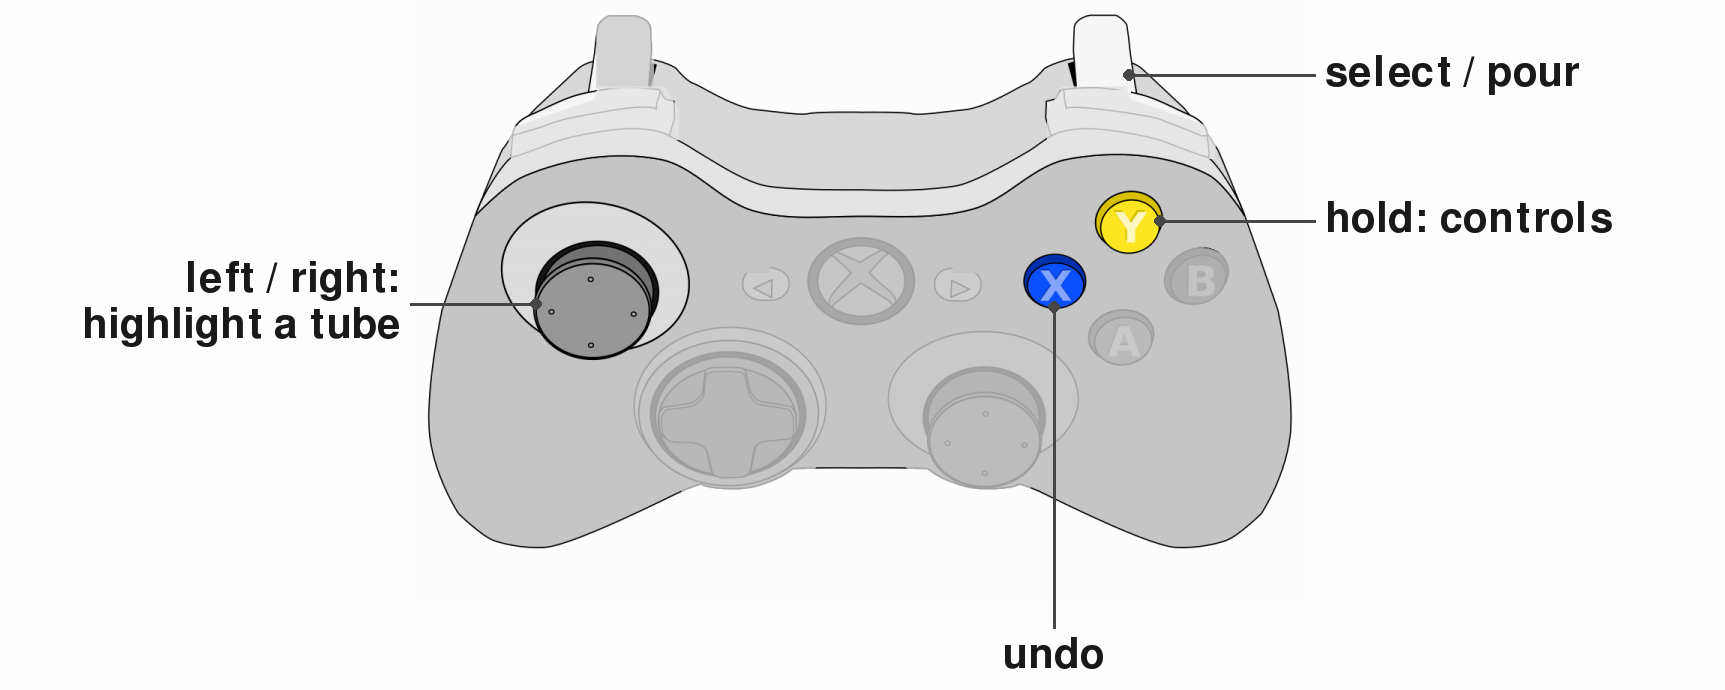
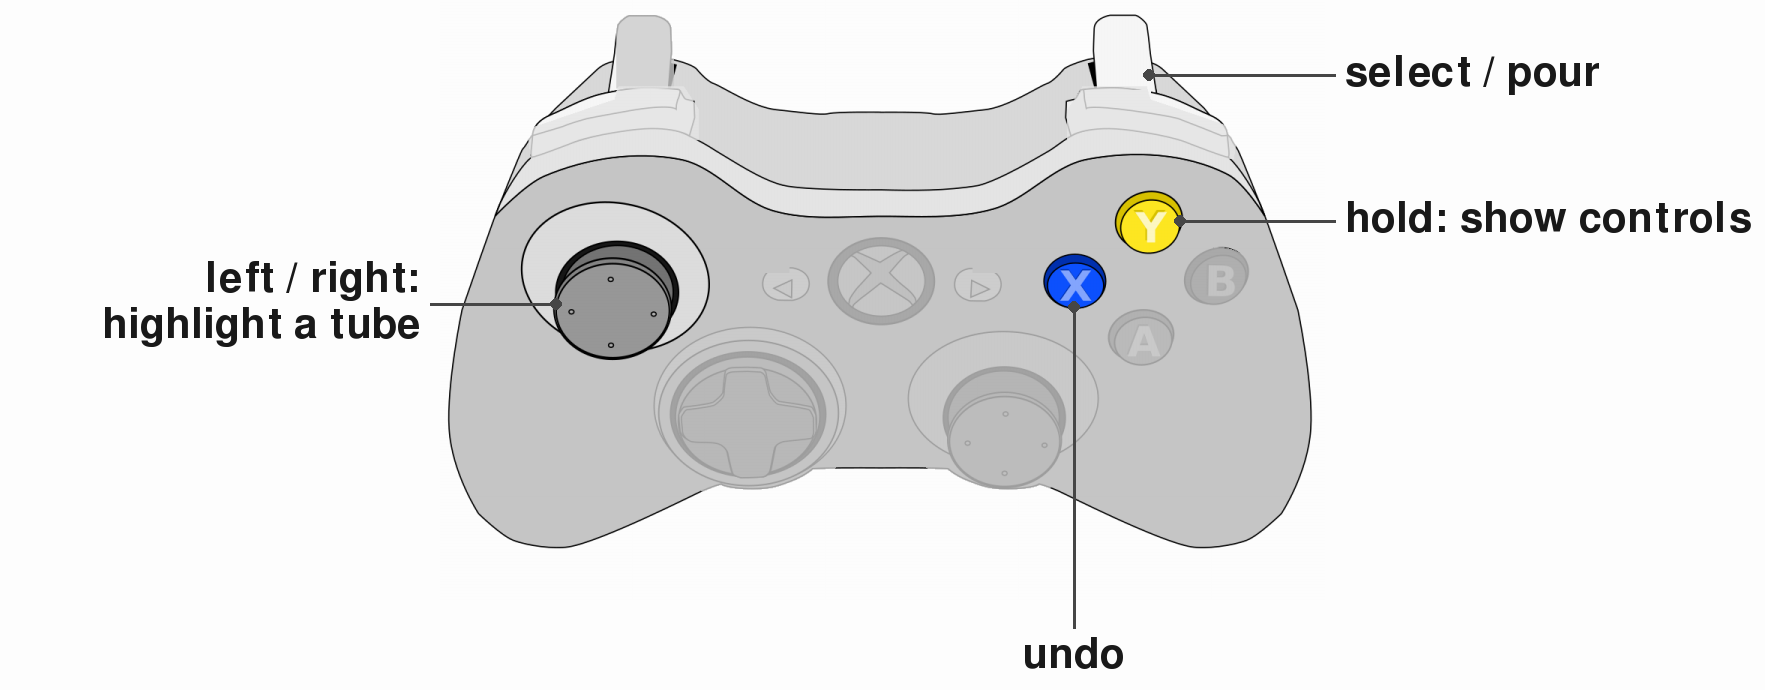
Game 4's hint opens at a press of Y; the images say "hold: show controls"
Game 4 is too fast to hold a button 3 s while it plays on, and it leaves
Y unused, so a press of Y can show the hint at once (hold 0) without
doing anything in the game. The label's longer wording needs 407 px, so
the images' label margins are 440 px rather than 420.

diff --git a/tools/controls_images.py b/tools/controls_images.py
@@ -29,7 +29,7 @@ PAPER, TEXT, LEADER = (255, 255, 255), (25, 25, 25), (70, 70, 70)
 #: the part of the underlay that is the controller, and its scale in the image
 CROP, SCALE = pygame.Rect(50, 50, 1180, 800), 0.75
 #: room for the labels on each side of the controller, and under it
-MARGIN, BELOW = 420, 90
+MARGIN, BELOW = 440, 90
 
 
 #: what an unused control fades to: its pixels keep this share of their contrast with

diff --git a/.claude/skills/controls-images/SKILL.md b/.claude/skills/controls-images/SKILL.md
@@ -9,7 +9,7 @@ A screen's text shows an image where a line is only `![alt](path)`, the path fro
 
 ## Make or change one
 
-1. Edit its entry in `labels.json`: one key per control the phase binds in `controls`, plus the menu's `control` (labelled "hold: pause menu") and the hint's ("hold: controls"); the text is the action the adapter's docstring gives that index, worded as the Controls lines word it.
+1. Edit its entry in `labels.json`: one key per control the phase binds in `controls`, plus the menu's `control` (labelled "hold: pause menu") and the hint's ("hold: show controls"); the text is the action the adapter's docstring gives that index, worded as the Controls lines word it.
 2. Redraw: `uv run python tools/controls_images.py configs/images/controls/labels.json`. A control the drawing does not have stops it, with the list of the ones it has.
 3. For a new image, add the line to the instructions' `text` in the `common/` file, above the Controls lines with an empty line after it: `"![controls](images/controls/<backend>/<name>.png)"`. A phase with a `hint` shows the same line at the top of the hint's `text`.
 4. Look at the image, and at the screen it is on, at the rigs' 1024x768: the text and the image must fit, the heading and the "Press X to start" line included. To see one game's screen:
